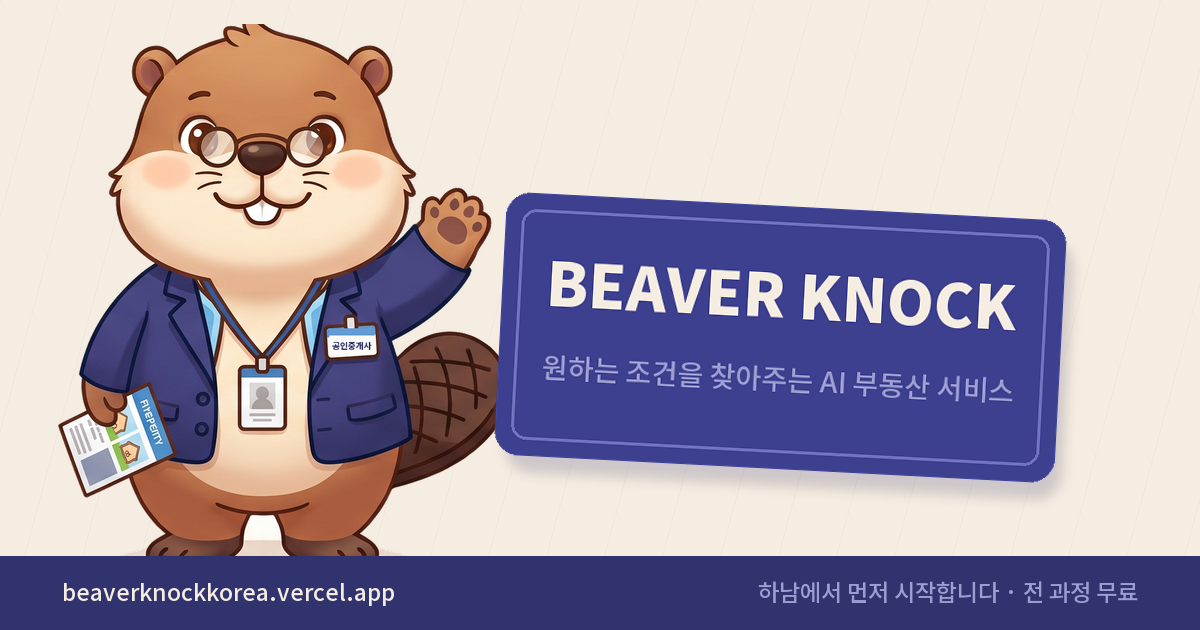
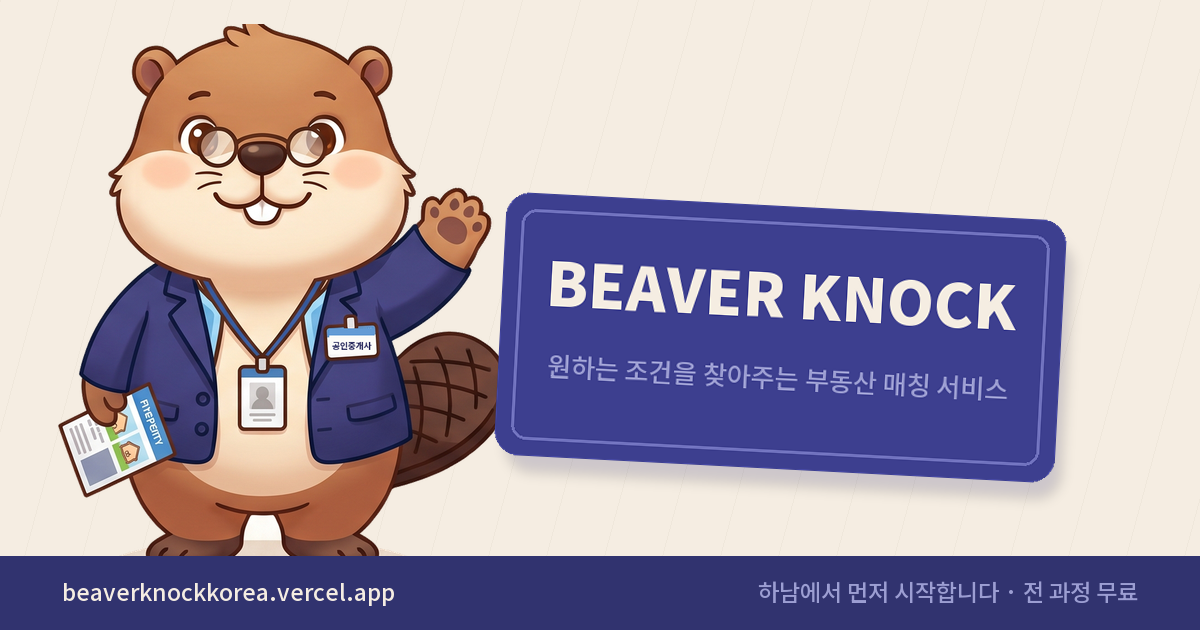
개인정보 처리방침 신설 · 「AI」 표기 제거
동의만 받고 문서가 없던 상태를 메웠다. 실제로 저장하는 컬럼과 한 줄씩 대조해 적었고, 보호책임자·사업자 정보처럼 사람이 채워야 하는 칸은 눈에 띄게 비워 뒀다. 「AI 맞춤형」은 뺐다 - 지금 매칭은 5단계 규칙이고 학습 모델이 없어 표시광고법에서 다툴 여지가 있다.

Changed region(s): [[0.4317, 0.5429, 0.8633, 0.6333]]

diff --git a/index.html b/index.html
@@ -799,9 +799,12 @@ const WM_IMPACT = [
    ※ 「매물」은 쓰지 않는다 — 중개대상물 표시·광고 주체로 읽힐 여지가 있다
       (공인중개사법 제18조의2 제3항 · 매물은 1:1 제안 안에만 존재).
       TAGLINES[0]이 현재 적용본. */
+/* 「AI」는 쓰지 않는다. 지금 매칭은 유형·지역·예산·필수키·확인 5단계 규칙이고
+   학습 모델이 없다. 없는 기술을 내세우면 표시광고법에서 다툴 여지가 생긴다.
+   실제로 모델을 넣는 날 다시 붙이면 된다. */
 const TAGLINES = [
-  'AI 맞춤형 조건매칭 서비스',
-  'AI 맞춤형 부동산 매칭 서비스',
+  '조건 맞춤 부동산 매칭 서비스',
+  '조건으로 찾는 부동산 매칭 서비스',
   '조건을 걸어두면 문을 두드립니다',
   '찾지 않아도 제안이 옵니다',
 ];
@@ -1018,7 +1021,10 @@ V['#/'] = () => `
   </div>
   <div style="flex:none;background:var(--white);border-top:1px solid var(--hair);padding:10px 76px 12px;display:flex;align-items:center;justify-content:space-between;gap:20px">
     ${logoLockup({h:18,en:true,tag:true,stack:true})}
-    <a data-go="#/brand" style="font-size:11.8px;color:var(--n500);text-decoration:underline;text-underline-offset:3px">브랜드</a>
+    <div style="display:flex;gap:16px">
+      <a data-go="#/privacy" style="font-size:11.8px;color:var(--n500);text-decoration:underline;text-underline-offset:3px">개인정보 처리방침</a>
+      <a data-go="#/brand" style="font-size:11.8px;color:var(--n500);text-decoration:underline;text-underline-offset:3px">브랜드</a>
+    </div>
   </div>`}
 </div>`;
 
@@ -1093,7 +1099,7 @@ V['#/login'] = () => {
       `}
 
       <p style="margin:0;text-align:center;font-size:11.5px;line-height:1.7;color:var(--n500)">
-        로그인하시면 <b style="color:var(--n700)">이용약관</b>과 <b style="color:var(--n700)">개인정보처리방침</b>에 동의하신 것으로 봅니다.<br>
+        로그인하시면 이용약관과 <a data-go="#/privacy" style="color:var(--ind);font-weight:700;text-decoration:underline;text-underline-offset:2px;cursor:pointer">개인정보 처리방침</a>에 동의하신 것으로 봅니다.<br>
         조건을 걸으실 때 <b style="color:var(--n700)">본인확인</b>을 한 번 더 받습니다.</p>
     </div>
   </div>
@@ -1633,6 +1639,7 @@ V['#/contact'] = () => { const d=S.draft; const ok = d.verified && phoneOk(d.pho
       <div class="card" style="padding:4px 20px">
         <div class="chk ${d.a1?'on':''}" data-act="agree" data-v="a1" style="border-bottom:1px solid var(--n100)">
           <span class="box">${ICON_CHECK}</span><span class="txt"><b style="color:var(--ind)">(필수)</b> <b style="color:var(--n900)">개인정보 제3자 제공</b>에 동의합니다
+          <a data-go="#/privacy" style="margin-left:6px;font-size:12px;font-weight:700;color:var(--ind);text-decoration:underline;text-underline-offset:2px">전문 보기</a>
           <small>제공받는 자: 해당 지역 공인중개사사무소(조건당 최대 5곳) · 항목: 본인확인된 이름·연락처·조건 전체 · 보유: 3개월 후 파기. 거부하실 수 있으나 거부 시 조건 전달이 불가능합니다.</small></span></div>
         <div class="chk ${d.a2?'on':''}" data-act="agree" data-v="a2" style="border-bottom:1px solid var(--n100)">
           <span class="box">${ICON_CHECK}</span><span class="txt"><b style="color:var(--ind)">(필수)</b> <b style="color:var(--n900)">알림이 여러 차례 발송</b>되는 것에 동의합니다
@@ -3212,6 +3219,100 @@ V['#/ops/live'] = () => {
   </div>
 </div>`;};
 
+
+/* ══════════ 개인정보 처리방침 ══════════
+   실제로 저장하는 컬럼(bk_demand)과 어긋나면 안 된다.
+   법인 정보·책임자처럼 사람이 채워야 하는 칸은 PP_BLANK 로 표시해 둔다. */
+const PP_BLANK = '<span style="background:var(--clay100);color:var(--clay700);padding:1px 7px;border-radius:5px;font-weight:700;font-size:12.5px">채워주세요</span>';
+
+const PP = [
+  ['1. 무엇을 받나요',
+   `조건을 등록하실 때 아래를 받습니다.
+    <div class="kv"><dt>본인확인</dt><dd>이름 · 휴대폰 번호 · 생년월일 · 확인 수단(문자 또는 PASS)</dd></div>
+    <div class="kv"><dt>찾으시는 조건</dt><dd>지역 · 거래 방식 · 예산 · 면적 · 업종 · 입주 시기 · 그 밖에 적어주신 내용 전부</dd></div>
+    <div class="kv"><dt>연락 선호</dt><dd>편한 연락 방법 · 연락 가능한 시간</dd></div>
+    <div class="kv"><dt>자동 수집</dt><dd>접속 IP의 단방향 해시 · 브라우저 정보 · 유입 경로</dd></div>
+    <p style="margin:12px 0 0">IP 주소 원본은 저장하지 않습니다. 되돌릴 수 없는 해시로만 남기며,
+    짧은 시간에 몰리는 허위 접수를 세는 데만 씁니다.</p>`],
+
+  ['2. 왜 받나요',
+   `적어주신 조건을 <b>해당 지역 공인중개사사무소에 전달</b>하기 위해서입니다.
+    그 밖의 목적으로는 쓰지 않습니다. 광고 수신에 따로 동의하신 경우에만 서비스 소식을 보내드립니다.`],
+
+  ['3. 누구에게 전달되나요',
+   `<div class="kv"><dt>받는 곳</dt><dd>조건에 해당하는 지역의 공인중개사사무소</dd></div>
+    <div class="kv"><dt>전달 범위</dt><dd>조건 1건당 최대 5곳</dd></div>
+    <div class="kv"><dt>전달 항목</dt><dd>본인확인된 이름 · 연락처 · 조건 전체</dd></div>
+    <div class="kv"><dt>목적</dt><dd>맞는 물건이 있을 때 직접 연락드리기 위함</dd></div>
+    <p style="margin:12px 0 0">거부하실 수 있습니다. 다만 거부하시면 조건을 전달할 수 없어 서비스를 이용하실 수 없습니다.</p>`],
+
+  ['4. 얼마나 보관하나요',
+   `<b style="color:var(--n900)">제공일로부터 3개월</b>이 지나면 자동으로 파기합니다.
+    매일 정해진 시각에 기한이 지난 조건을 지우고, 지운 건수를 기록으로 남깁니다.
+    그 전이라도 삭제를 요청하시면 지체 없이 지워 드립니다.`],
+
+  ['5. 어디에 맡기나요',
+   `서비스를 돌리기 위해 아래에 처리를 맡깁니다.
+    <div class="kv"><dt>Supabase</dt><dd>조건 데이터 보관 · 서버 위치 대한민국(서울)</dd></div>
+    <div class="kv"><dt>Vercel</dt><dd>웹 화면 제공</dd></div>`],
+
+  ['6. 어떤 권리가 있나요',
+   `언제든 <b>열람 · 정정 · 삭제 · 처리정지</b>를 요구하실 수 있습니다.
+    아래 연락처로 알려주시면 확인 후 처리해 드립니다.
+    법정대리인을 통해서도 요구하실 수 있습니다.`],
+
+  ['7. 안전하게 두고 있나요',
+   `<div class="kv"><dt>접근 제한</dt><dd>조건은 운영자 인증을 거쳐야만 볼 수 있습니다. 브라우저에서는 직접 조회할 수 없습니다.</dd></div>
+    <div class="kv"><dt>화면 표시</dt><dd>운영 화면에서도 연락처는 기본으로 가려 보여줍니다.</dd></div>
+    <div class="kv"><dt>전송 구간</dt><dd>전 구간 HTTPS 암호화</dd></div>`],
+
+  ['8. 하지 않는 것',
+   `<div class="kv"><dt>매물 중개</dt><dd>저희는 조건을 전달만 하며 거래에 관여하지 않습니다.</dd></div>
+    <div class="kv"><dt>비용 청구</dt><dd>이용자와 중개사 모두에게 어떤 비용도 받지 않습니다.</dd></div>
+    <div class="kv"><dt>판매·공유</dt><dd>개인정보를 팔거나 위 3항 외의 곳에 넘기지 않습니다.</dd></div>`],
+
+  ['9. 문의',
+   `<div class="kv"><dt>서비스명</dt><dd>비버노크</dd></div>
+    <div class="kv"><dt>운영</dt><dd>플러스토닉</dd></div>
+    <div class="kv"><dt>개인정보 보호책임자</dt><dd>${PP_BLANK}</dd></div>
+    <div class="kv"><dt>연락처</dt><dd>${PP_BLANK}</dd></div>
+    <div class="kv"><dt>사업자등록번호</dt><dd>${PP_BLANK}</dd></div>
+    <div class="kv"><dt>주소</dt><dd>${PP_BLANK}</dd></div>
+    <p style="margin:12px 0 0">개인정보 침해에 관한 상담이 필요하시면
+    개인정보침해신고센터(118) · 개인정보 분쟁조정위원회(1833-6972)에 문의하실 수 있습니다.</p>`],
+];
+
+V['#/privacy'] = () => `
+<div class="scr fade" style="background:var(--n50)">
+  <div class="nav solid pad">
+    <a data-go="#/" style="flex:none">${logoLockup({h:24})}</a>
+    <div class="right"><a data-go="#/" style="font-size:13px;font-weight:600;color:var(--n700)">← 처음으로</a></div>
+  </div>
+  <div class="pad" style="flex:1;overflow:auto;padding-top:${isMo()?20:32}px;padding-bottom:40px;max-width:760px;margin:0 auto;width:100%">
+    <span class="eyebrow">PRIVACY</span>
+    <h1 class="t" style="font-size:${isMo()?22:28}px;margin:7px 0 10px">개인정보 처리방침</h1>
+    <p style="margin:0 0 22px;font-size:13.5px;line-height:1.7;color:var(--n700)">
+      비버노크는 조건을 전달하는 데 필요한 최소한만 받고, <b style="color:var(--n900)">3개월이 지나면 지웁니다.</b>
+      아래는 실제로 저장하는 항목 그대로입니다.</p>
+
+    <div class="card pad" style="background:var(--clay100);border-color:var(--clay200);margin-bottom:20px">
+      <b style="display:block;font-size:14px;font-weight:800;color:var(--clay700);margin-bottom:6px">아직 채우지 않은 칸이 있습니다</b>
+      <p style="margin:0;font-size:12.8px;line-height:1.7;color:var(--n700)">
+        보호책임자·사업자 정보는 실제 값으로 채운 뒤 공개하셔야 합니다.
+        이 문서는 실제 처리 내용을 그대로 적은 초안이며, 공개 전에 법률 검토를 받으시길 권합니다.</p>
+    </div>
+
+    ${PP.map(([t, body], i) => `
+      <div class="card pad" style="margin-bottom:12px">
+        <b style="display:block;font-size:15.5px;font-weight:800;letter-spacing:-.02em;color:var(--n900);margin-bottom:10px">${t}</b>
+        <div style="font-size:13.5px;line-height:1.8;color:var(--n700)">${body}</div>
+      </div>`).join('')}
+
+    <p style="margin:18px 0 0;font-size:12px;line-height:1.7;color:var(--n500)">
+      이 방침은 2026년 8월 29일부터 적용됩니다. 내용이 바뀌면 시행 7일 전부터 이 화면에 알려드립니다.</p>
+  </div>
+</div>`;
+
 /* ══════════ 라우터 ══════════ */
 function render(){
   let h = location.hash || '#/';
@@ -3636,7 +3737,7 @@ const ROUTES=[['#/','D-01 랜딩'],['#/login','D-00 로그인'],['#/kind','D-02 
   ['#/contact','D-04 연락·동의'],['#/done','D-05 접수 완료'],['#/my','D-07 내 조건'],['#/inbox','D-08 제안함'],
   ['#/proposal/p1','D-09 제안 상세'],['#/connect/p1','D-10 연결'],['#/report/p1','D-11 신고'],['#/relax','D-12 조건 완화'],
   ['#/partner','S-01 공급자 랜딩'],['#/partner/demands','S-04 수요 목록'],['#/partner/demand/d1','S-05 수요 상세'],
-  ['#/partner/propose/d1','S-06 제안 작성'],['#/partner/join','S-02 가입·인증'],['#/partner/settings','S-03 활동 조건 설정'],['#/partner/listings','S-08 내 물건'],['#/partner/listing/L1','S-08 역매칭 결과'],['#/partner/proposals','S-07 내 제안'],['#/partner/stats','S-09 성과'],['#/ops','A-04 지표 대시보드'],['#/ops/live','A-05 접수 조건(실데이터)'],['#/brand','◆ 로고 시스템']];
+  ['#/partner/propose/d1','S-06 제안 작성'],['#/partner/join','S-02 가입·인증'],['#/partner/settings','S-03 활동 조건 설정'],['#/partner/listings','S-08 내 물건'],['#/partner/listing/L1','S-08 역매칭 결과'],['#/partner/proposals','S-07 내 제안'],['#/partner/stats','S-09 성과'],['#/ops','A-04 지표 대시보드'],['#/ops/live','A-05 접수 조건(실데이터)'],['#/privacy','◆ 개인정보 처리방침'],['#/brand','◆ 로고 시스템']];
 $('#jump').innerHTML = ROUTES.map(([h,l])=>`<option value="${h}">${l}</option>`).join('');
 $('#jump').addEventListener('change', e=>{ if(e.target.value.startsWith('#/partner/propose')) S.timeLeft=900; go(e.target.value); });
 
